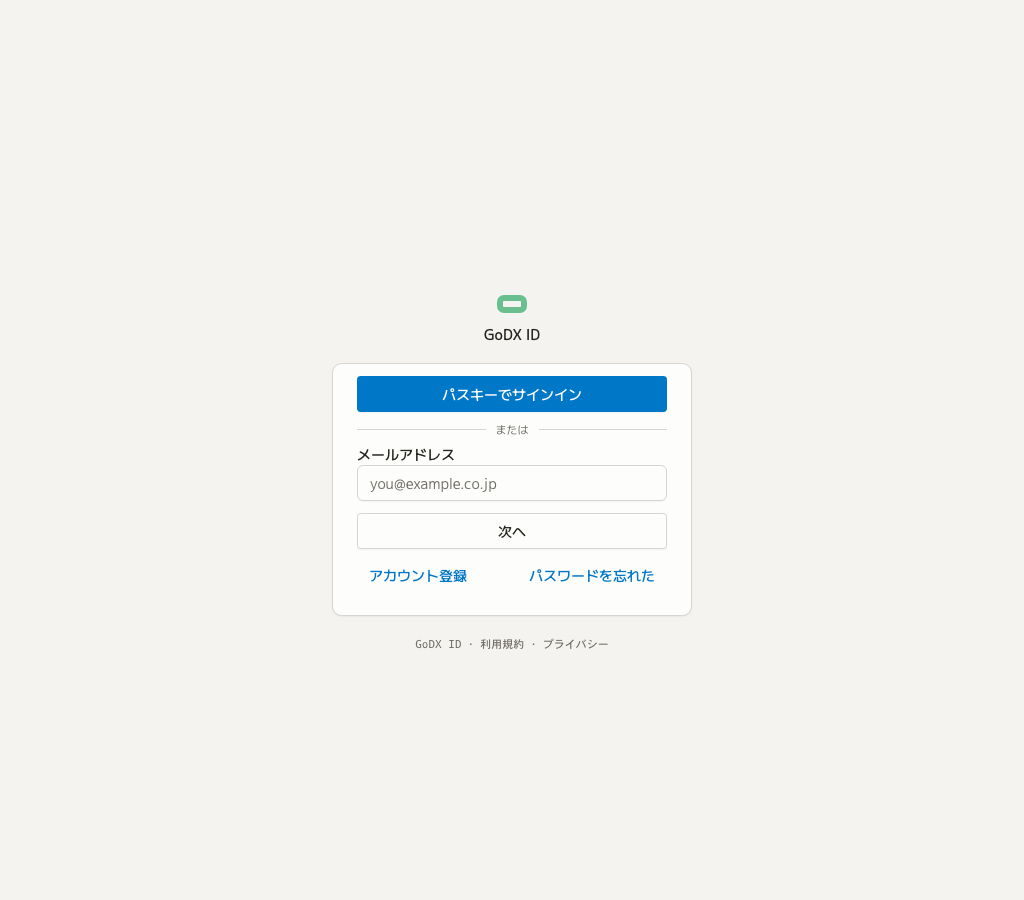
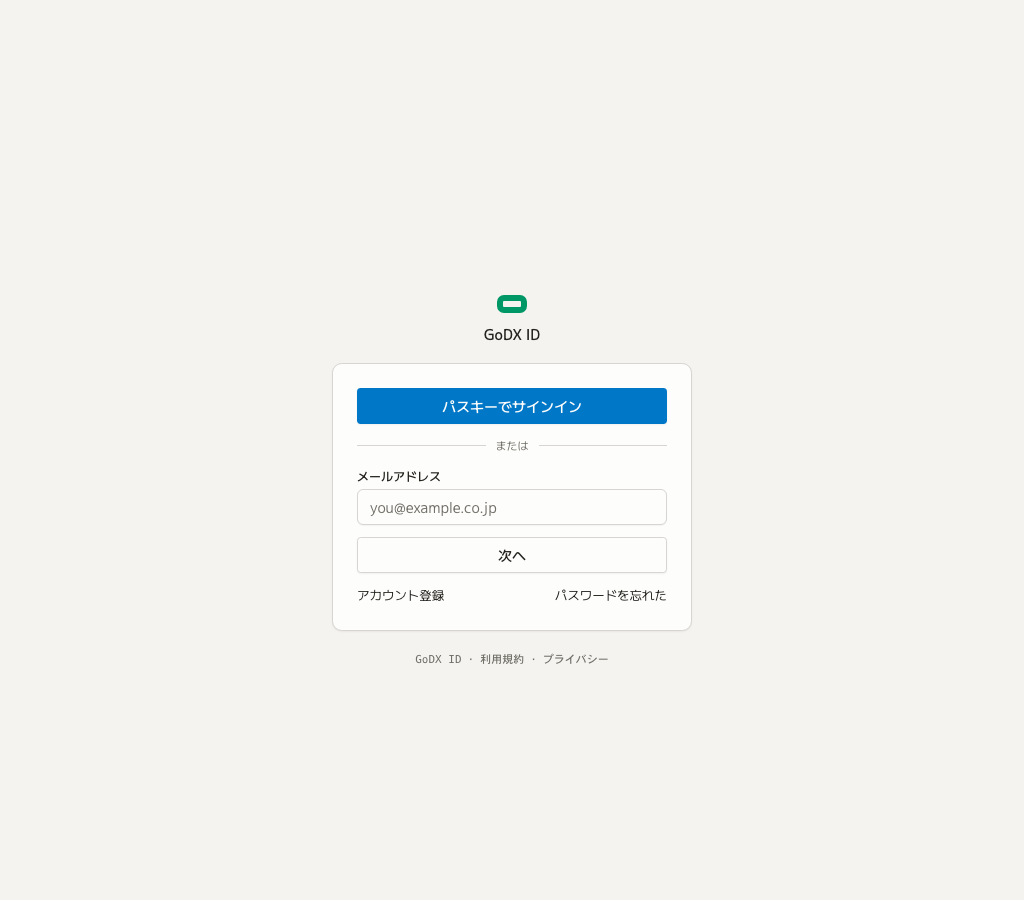
fix(auth-shell): preset login khớp nhịp canonical SCR-001 — inset block 24px, divider 19px, label 18px
Ba nguyên nhân token trong package (godx-jp/godxjp-ui#263):

1. --auth-shell-login-card-padding-block-compact cộng hai lần
   --control-border-width vào inset 24px → 26px, trong khi rect border-box
   đã chứa border 1px của card — passkey CTA nằm ở y=390 thay vì y=388.
   Về phẳng var(--auth-shell-compact-card-inset) = 24px.

2. .ui-auth-divider hardcode line-height:1 → hàng divider chỉ cao 11px thay
   vì 19px canonical. Token hoá --auth-shell-divider-label-line-height:
   calc(19/11) — hàng đúng 19px tại label 11px và giữ tỉ lệ khi retune.

3. Cặp field-label var(--font-size-xs)/1.25 vốn CHẾT dưới tầng utilities
   (Label mang text-sm leading-none, utilities khai báo sau components nên
   luôn thắng) — label render 14px/1.0. Đưa rule ra ngoài layer (như
   density.css) để token thật sự cascade, và chốt literal 12px + 1.5 = line
   box 18px đúng artboard (--font-size-xs ≈ 12.47px sẽ trôi input khỏi
   y=489).

Demo docs/layout/auth-shell.tsx đưa về đúng composition đã tài liệu hoá
(bỏ brand bar 72px không có trong SCR-001, CardContent solo, AuthFooter là
con trực tiếp — hàng grid thứ ba của preset, hàng link 12px như artboard);
gate scripts/auth-shell-login-visual.mjs pin thêm nhịp trong card: CTA
+25, divider +73 h19, input +126, secondary +174, links +222, card 267±2.

Đo sau fix (1440x900, mọi state): card 540,363 360x268.19; passkey y=388;
divider y=436 h=19; input y=489; secondary y=537; links y=585.

Refs godx-jp/godxjp-ui#263

diff --git a/mcp/src/data/component-tokens.generated.ts b/mcp/src/data/component-tokens.generated.ts
@@ -2190,8 +2190,8 @@ export const COMPONENT_TOKENS: ComponentToken[] = [
   },
   {
     "name": "--auth-shell-login-card-padding-block-compact",
-    "value": "calc( var(--auth-shell-compact-card-inset) + var(--control-border-width) + var(--control-border-width) )",
-    "description": "Login preset (gh#237) — canonical SCR-001 anchors at 1440x900, 1024x900 and 390x844. * The 112px identity slot is deliberately taller than a two-line real requester. Identity * content aligns to the slot end, so missing/one-line/two-line requester data changes only the * empty space above it, never the card or footer position. The flow starts at y=231 desktop and * y=221 mobile: 231/221 + 112 + 20 gap = card y=363/353. Literal artboard lengths belong here, * not in a consumer selector, and do not drift with --scaling."
+    "value": "var(--auth-shell-compact-card-inset)",
+    "description": "Canonical SCR-001 block inset is a FLAT 24px — the same measure as the inline inset. The card * draws its own 1px border and a border-box rect already contains it, so the former * `+ 2 x --control-border-width` double-counted the border and pushed the passkey CTA to y=390 * instead of the canonical y=388 (gh#263)."
   },
   {
     "name": "--auth-shell-device-card-max-width",
@@ -2291,107 +2291,112 @@ export const COMPONENT_TOKENS: ComponentToken[] = [
   {
     "name": "--auth-shell-divider-gap",
     "value": "0.625rem",
-    "description": "Labelled auth divider geometry."
+    "description": "Labelled auth divider geometry. The canonical SCR-001 divider row is 19px tall at the 11px * label (the artboard label inherits the page's line-height instead of collapsing to a 1.0 line * box). 19/11 pins the row at exactly 19px and keeps it proportional if a service retunes the * label font-size. The previous hardcoded `line-height: 1` rendered an 11px row, sitting the * whole lower half of the Login card 8px high (gh#263)."
   },
   {
     "name": "--auth-shell-divider-label-font-size",
     "value": "0.6875rem",
-    "description": "Labelled auth divider geometry."
+    "description": "Labelled auth divider geometry. The canonical SCR-001 divider row is 19px tall at the 11px * label (the artboard label inherits the page's line-height instead of collapsing to a 1.0 line * box). 19/11 pins the row at exactly 19px and keeps it proportional if a service retunes the * label font-size. The previous hardcoded `line-height: 1` rendered an 11px row, sitting the * whole lower half of the Login card 8px high (gh#263)."
+  },
+  {
+    "name": "--auth-shell-divider-label-line-height",
+    "value": "calc(19 / 11)",
+    "description": "Labelled auth divider geometry. The canonical SCR-001 divider row is 19px tall at the 11px * label (the artboard label inherits the page's line-height instead of collapsing to a 1.0 line * box). 19/11 pins the row at exactly 19px and keeps it proportional if a service retunes the * label font-size. The previous hardcoded `line-height: 1` rendered an 11px row, sitting the * whole lower half of the Login card 8px high (gh#263)."
   },
   {
     "name": "--auth-shell-divider-rule-color",
     "value": "var(--border)",
-    "description": "Labelled auth divider geometry."
+    "description": "Labelled auth divider geometry. The canonical SCR-001 divider row is 19px tall at the 11px * label (the artboard label inherits the page's line-height instead of collapsing to a 1.0 line * box). 19/11 pins the row at exactly 19px and keeps it proportional if a service retunes the * label font-size. The previous hardcoded `line-height: 1` rendered an 11px row, sitting the * whole lower half of the Login card 8px high (gh#263)."
   },
   {
     "name": "--auth-shell-divider-label-color",
     "value": "var(--muted-foreground)",
-    "description": "Labelled auth divider geometry."
+    "description": "Labelled auth divider geometry. The canonical SCR-001 divider row is 19px tall at the 11px * label (the artboard label inherits the page's line-height instead of collapsing to a 1.0 line * box). 19/11 pins the row at exactly 19px and keeps it proportional if a service retunes the * label font-size. The previous hardcoded `line-height: 1` rendered an 11px row, sitting the * whole lower half of the Login card 8px high (gh#263)."
   },
   {
     "name": "--auth-identity-gap",
     "value": "0.375rem",
-    "description": "Labelled auth divider geometry."
+    "description": "Labelled auth divider geometry. The canonical SCR-001 divider row is 19px tall at the 11px * label (the artboard label inherits the page's line-height instead of collapsing to a 1.0 line * box). 19/11 pins the row at exactly 19px and keeps it proportional if a service retunes the * label font-size. The previous hardcoded `line-height: 1` rendered an 11px row, sitting the * whole lower half of the Login card 8px high (gh#263)."
   },
   {
     "name": "--auth-requester-gap",
     "value": "0.375rem",
-    "description": "Labelled auth divider geometry."
+    "description": "Labelled auth divider geometry. The canonical SCR-001 divider row is 19px tall at the 11px * label (the artboard label inherits the page's line-height instead of collapsing to a 1.0 line * box). 19/11 pins the row at exactly 19px and keeps it proportional if a service retunes the * label font-size. The previous hardcoded `line-height: 1` rendered an 11px row, sitting the * whole lower half of the Login card 8px high (gh#263)."
   },
   {
     "name": "--auth-requester-icon-size",
     "value": "1rem",
-    "description": "Labelled auth divider geometry."
+    "description": "Labelled auth divider geometry. The canonical SCR-001 divider row is 19px tall at the 11px * label (the artboard label inherits the page's line-height instead of collapsing to a 1.0 line * box). 19/11 pins the row at exactly 19px and keeps it proportional if a service retunes the * label font-size. The previous hardcoded `line-height: 1` rendered an 11px row, sitting the * whole lower half of the Login card 8px high (gh#263)."
   },
   {
     "name": "--auth-requester-glyph-size",
     "value": "0.625rem",
-    "description": "Labelled auth divider geometry."
+    "description": "Labelled auth divider geometry. The canonical SCR-001 divider row is 19px tall at the 11px * label (the artboard label inherits the page's line-height instead of collapsing to a 1.0 line * box). 19/11 pins the row at exactly 19px and keeps it proportional if a service retunes the * label font-size. The previous hardcoded `line-height: 1` rendered an 11px row, sitting the * whole lower half of the Login card 8px high (gh#263)."
   },
   {
     "name": "--auth-account-summary-min-height",
     "value": "var(--control-height-comfortable)",
-    "description": "Labelled auth divider geometry."
+    "description": "Labelled auth divider geometry. The canonical SCR-001 divider row is 19px tall at the 11px * label (the artboard label inherits the page's line-height instead of collapsing to a 1.0 line * box). 19/11 pins the row at exactly 19px and keeps it proportional if a service retunes the * label font-size. The previous hardcoded `line-height: 1` rendered an 11px row, sitting the * whole lower half of the Login card 8px high (gh#263)."
   },
   {
     "name": "--auth-account-summary-gap",
     "value": "var(--space-2)",
-    "description": "Labelled auth divider geometry."
+    "description": "Labelled auth divider geometry. The canonical SCR-001 divider row is 19px tall at the 11px * label (the artboard label inherits the page's line-height instead of collapsing to a 1.0 line * box). 19/11 pins the row at exactly 19px and keeps it proportional if a service retunes the * label font-size. The previous hardcoded `line-height: 1` rendered an 11px row, sitting the * whole lower half of the Login card 8px high (gh#263)."
   },
   {
     "name": "--auth-account-summary-padding",
     "value": "var(--space-1) var(--space-2)",
-    "description": "Labelled auth divider geometry."
+    "description": "Labelled auth divider geometry. The canonical SCR-001 divider row is 19px tall at the 11px * label (the artboard label inherits the page's line-height instead of collapsing to a 1.0 line * box). 19/11 pins the row at exactly 19px and keeps it proportional if a service retunes the * label font-size. The previous hardcoded `line-height: 1` rendered an 11px row, sitting the * whole lower half of the Login card 8px high (gh#263)."
   },
   {
     "name": "--auth-account-summary-identity-min-width",
     "value": "12rem",
-    "description": "Labelled auth divider geometry."
+    "description": "Labelled auth divider geometry. The canonical SCR-001 divider row is 19px tall at the 11px * label (the artboard label inherits the page's line-height instead of collapsing to a 1.0 line * box). 19/11 pins the row at exactly 19px and keeps it proportional if a service retunes the * label font-size. The previous hardcoded `line-height: 1` rendered an 11px row, sitting the * whole lower half of the Login card 8px high (gh#263)."
   },
   {
     "name": "--auth-account-summary-avatar-size",
     "value": "var(--control-height-sm)",
-    "description": "Labelled auth divider geometry."
+    "description": "Labelled auth divider geometry. The canonical SCR-001 divider row is 19px tall at the 11px * label (the artboard label inherits the page's line-height instead of collapsing to a 1.0 line * box). 19/11 pins the row at exactly 19px and keeps it proportional if a service retunes the * label font-size. The previous hardcoded `line-height: 1` rendered an 11px row, sitting the * whole lower half of the Login card 8px high (gh#263)."
   },
   {
     "name": "--auth-account-summary-avatar-glyph-size",
     "value": "var(--control-icon-size-sm)",
-    "description": "Labelled auth divider geometry."
+    "description": "Labelled auth divider geometry. The canonical SCR-001 divider row is 19px tall at the 11px * label (the artboard label inherits the page's line-height instead of collapsing to a 1.0 line * box). 19/11 pins the row at exactly 19px and keeps it proportional if a service retunes the * label font-size. The previous hardcoded `line-height: 1` rendered an 11px row, sitting the * whole lower half of the Login card 8px high (gh#263)."
   },
   {
     "name": "--auth-account-summary-email-font-size",
     "value": "var(--font-size-sm)",
-    "description": "Labelled auth divider geometry."
+    "description": "Labelled auth divider geometry. The canonical SCR-001 divider row is 19px tall at the 11px * label (the artboard label inherits the page's line-height instead of collapsing to a 1.0 line * box). 19/11 pins the row at exactly 19px and keeps it proportional if a service retunes the * label font-size. The previous hardcoded `line-height: 1` rendered an 11px row, sitting the * whole lower half of the Login card 8px high (gh#263)."
   },
   {
     "name": "--auth-footer-content-gap",
     "value": "0.375rem",
-    "description": "Labelled auth divider geometry."
+    "description": "Labelled auth divider geometry. The canonical SCR-001 divider row is 19px tall at the 11px * label (the artboard label inherits the page's line-height instead of collapsing to a 1.0 line * box). 19/11 pins the row at exactly 19px and keeps it proportional if a service retunes the * label font-size. The previous hardcoded `line-height: 1` rendered an 11px row, sitting the * whole lower half of the Login card 8px high (gh#263)."
   },
   {
     "name": "--auth-footer-text-font-size",
     "value": "0.6875rem",
-    "description": "Labelled auth divider geometry."
+    "description": "Labelled auth divider geometry. The canonical SCR-001 divider row is 19px tall at the 11px * label (the artboard label inherits the page's line-height instead of collapsing to a 1.0 line * box). 19/11 pins the row at exactly 19px and keeps it proportional if a service retunes the * label font-size. The previous hardcoded `line-height: 1` rendered an 11px row, sitting the * whole lower half of the Login card 8px high (gh#263)."
   },
   {
     "name": "--auth-stack-gap",
     "value": "var(--space-3)",
-    "description": "Labelled auth divider geometry."
+    "description": "Labelled auth divider geometry. The canonical SCR-001 divider row is 19px tall at the 11px * label (the artboard label inherits the page's line-height instead of collapsing to a 1.0 line * box). 19/11 pins the row at exactly 19px and keeps it proportional if a service retunes the * label font-size. The previous hardcoded `line-height: 1` rendered an 11px row, sitting the * whole lower half of the Login card 8px high (gh#263)."
   },
   {
     "name": "--auth-shell-field-label-gap",
     "value": "var(--space-1)",
-    "description": "Labelled auth divider geometry."
+    "description": "Labelled auth divider geometry. The canonical SCR-001 divider row is 19px tall at the 11px * label (the artboard label inherits the page's line-height instead of collapsing to a 1.0 line * box). 19/11 pins the row at exactly 19px and keeps it proportional if a service retunes the * label font-size. The previous hardcoded `line-height: 1` rendered an 11px row, sitting the * whole lower half of the Login card 8px high (gh#263)."
   },
   {
     "name": "--auth-shell-field-label-font-size",
-    "value": "var(--font-size-xs)",
-    "description": "Labelled auth divider geometry."
+    "value": "0.75rem",
+    "description": "Canonical SCR-001 field label: a LITERAL 12px (the golden-ratio --font-size-xs ≈ 12.47px would * drift the 18px line box to 18.7px and push the email input off its y=489 anchor) with a 1.5 * line box = 18px. The former var(--font-size-xs)/1.25 pair rendered a 14px box, sitting the * email input 4px high (gh#263)."
   },
   {
     "name": "--auth-shell-field-label-line-height",
-    "value": "1.25",
-    "description": "Labelled auth divider geometry."
+    "value": "1.5",
+    "description": "Canonical SCR-001 field label: a LITERAL 12px (the golden-ratio --font-size-xs ≈ 12.47px would * drift the 18px line box to 18.7px and push the email input off its y=489 anchor) with a 1.5 * line box = 18px. The former var(--font-size-xs)/1.25 pair rendered a 14px box, sitting the * email input 4px high (gh#263)."
   },
   {
     "name": "--centered-shell-bar-height",

diff --git a/src/tokens/components/shell.css b/src/tokens/components/shell.css
@@ -172,9 +172,11 @@
   --auth-shell-login-main-padding-block-end: 1rem;
   --auth-shell-login-identity-slot-block-size: 7rem;
   --auth-shell-login-card-stack-gap: 1.25rem;
-  --auth-shell-login-card-padding-block-compact: calc(
-    var(--auth-shell-compact-card-inset) + var(--control-border-width) + var(--control-border-width)
-  );
+  /* Canonical SCR-001 block inset is a FLAT 24px — the same measure as the inline inset. The card
+   * draws its own 1px border and a border-box rect already contains it, so the former
+   * `+ 2 x --control-border-width` double-counted the border and pushed the passkey CTA to y=390
+   * instead of the canonical y=388 (gh#263). */
+  --auth-shell-login-card-padding-block-compact: var(--auth-shell-compact-card-inset);
 
   /* Device-authorization preset — 380px card measure, 15px block · 5px inline mobile gutter
    * (at a 390px viewport the card is x=5px, width=380px). */
@@ -238,9 +240,14 @@
    * content instead. */
   --auth-shell-registration-identity-slot-block-size: 7rem;
 
-  /* Labelled auth divider geometry. */
+  /* Labelled auth divider geometry. The canonical SCR-001 divider row is 19px tall at the 11px
+   * label (the artboard label inherits the page's line-height instead of collapsing to a 1.0 line
+   * box). 19/11 pins the row at exactly 19px and keeps it proportional if a service retunes the
+   * label font-size. The previous hardcoded `line-height: 1` rendered an 11px row, sitting the
+   * whole lower half of the Login card 8px high (gh#263). */
   --auth-shell-divider-gap: 0.625rem;
   --auth-shell-divider-label-font-size: 0.6875rem;
+  --auth-shell-divider-label-line-height: calc(19 / 11);
   --auth-shell-divider-rule-color: var(--border);
   --auth-shell-divider-label-color: var(--muted-foreground);
   --auth-identity-gap: 0.375rem;
@@ -258,8 +265,12 @@
   --auth-footer-text-font-size: 0.6875rem;
   --auth-stack-gap: var(--space-3);
   --auth-shell-field-label-gap: var(--space-1);
-  --auth-shell-field-label-font-size: var(--font-size-xs);
-  --auth-shell-field-label-line-height: 1.25;
+  /* Canonical SCR-001 field label: a LITERAL 12px (the golden-ratio --font-size-xs ≈ 12.47px would
+   * drift the 18px line box to 18.7px and push the email input off its y=489 anchor) with a 1.5
+   * line box = 18px. The former var(--font-size-xs)/1.25 pair rendered a 14px box, sitting the
+   * email input 4px high (gh#263). */
+  --auth-shell-field-label-font-size: 0.75rem;
+  --auth-shell-field-label-line-height: 1.5;
 
   /* CenteredShell — authenticated, no-sidebar, centred-column page shell (hosted-ID "My Page",
    * account, standalone settings). The bar mirrors AppShell's `.app-topbar` chrome (fixed height +

diff --git a/docs/layout/auth-shell.tsx b/docs/layout/auth-shell.tsx
@@ -1,6 +1,6 @@
 import { Card, CardContent } from "@godxjp/ui/data-display";
 import { FormField, Input } from "@godxjp/ui/data-entry";
-import { Button, Logo, Text } from "@godxjp/ui/general";
+import { Button, Text } from "@godxjp/ui/general";
 import {
   AuthDivider,
   AuthFooter,
@@ -13,6 +13,11 @@ import {
 /**
  * SCR-001 Login visual contract. `?state=standalone|one-line|wrapped` drives the package visual
  * test; all three keep the same card anchor without consumer CSS or fake requester data.
+ *
+ * The composition mirrors the documented consumer page exactly (gh#263): NO top brand bar (the
+ * canonical SCR-001 artboard has none — the in-flow AuthIdentity mark IS the brand), a header-less
+ * `<CardContent solo>` body, `AuthFooter` as the third direct child (the login preset's third grid
+ * row), and a plain 12px text-link row like the artboard's.
  */
 export default function Demo() {
   const state = new URLSearchParams(window.location.search).get("state") ?? "one-line";
@@ -24,20 +29,10 @@ export default function Demo() {
         : "Attendance is requesting sign in";
 
   return (
-    <AuthShell
-      variant="canonical"
-      preset="login"
-      brand={
-        <Flex align="center" gap="sm">
-          <Logo mark="godx" />
-          <Text weight="medium">GoDX ID</Text>
-        </Flex>
-      }
-      footer={<AuthFooter product="GoDX ID" terms="利用規約" privacy="プライバシー" />}
-    >
+    <AuthShell variant="canonical" preset="login">
       <AuthIdentity title="GoDX ID" requester={requester} />
       <Card>
-        <CardContent>
+        <CardContent solo>
           <AuthStack>
             <Button fullWidth>パスキーでサインイン</Button>
             <AuthDivider label="または" />
@@ -48,16 +43,17 @@ export default function Demo() {
               次へ
             </Button>
             <Flex justify="between" wrap>
-              <Button variant="link" size="sm">
-                アカウント登録
-              </Button>
-              <Button variant="link" size="sm">
-                パスワードを忘れた
-              </Button>
+              <Text size="xs">
+                <a href="#register">アカウント登録</a>
+              </Text>
+              <Text size="xs">
+                <a href="#forgot">パスワードを忘れた</a>
+              </Text>
             </Flex>
           </AuthStack>
         </CardContent>
       </Card>
+      <AuthFooter product="GoDX ID" terms="利用規約" privacy="プライバシー" />
     </AuthShell>
   );
 }

diff --git a/src/styles/shell-layout.css b/src/styles/shell-layout.css
@@ -339,10 +339,21 @@
     --field-label-gap: var(--auth-shell-field-label-gap);
   }
 
-  .ui-auth-shell[data-variant="canonical"] [data-slot="form-field-label"] [data-slot="label"] {
-    font-size: var(--auth-shell-field-label-font-size);
-    line-height: var(--auth-shell-field-label-line-height);
-  }
+}
+
+/* INTENTIONALLY UNLAYERED (like density.css) — the Label primitive carries `text-sm leading-none`
+ * Tailwind utility classes, and the utilities layer is declared after `components`, so a
+ * components-layer declaration of the same properties can NEVER win regardless of specificity.
+ * That left `--auth-shell-field-label-font-size` / `--auth-shell-field-label-line-height` dead and
+ * the canonical field label rendering as a 14px/1.0 line box instead of the canonical 12px/1.5 =
+ * 18px, sitting the email input 4px high (gh#263). Unlayered author CSS out-cascades every layer;
+ * the two tokens remain the public tuning knobs. */
+.ui-auth-shell[data-variant="canonical"] [data-slot="form-field-label"] [data-slot="label"] {
+  font-size: var(--auth-shell-field-label-font-size);
+  line-height: var(--auth-shell-field-label-line-height);
+}
+
+@layer components {
 
   /*
    * Compact auth card density — the two card axes are wired to SEPARATE knobs (gh#232), so a
@@ -379,7 +390,7 @@
     gap: var(--auth-shell-divider-gap);
     color: hsl(var(--auth-shell-divider-label-color));
     font-size: var(--auth-shell-divider-label-font-size);
-    line-height: 1;
+    line-height: var(--auth-shell-divider-label-line-height);
   }
 
   .ui-auth-divider-rule {
